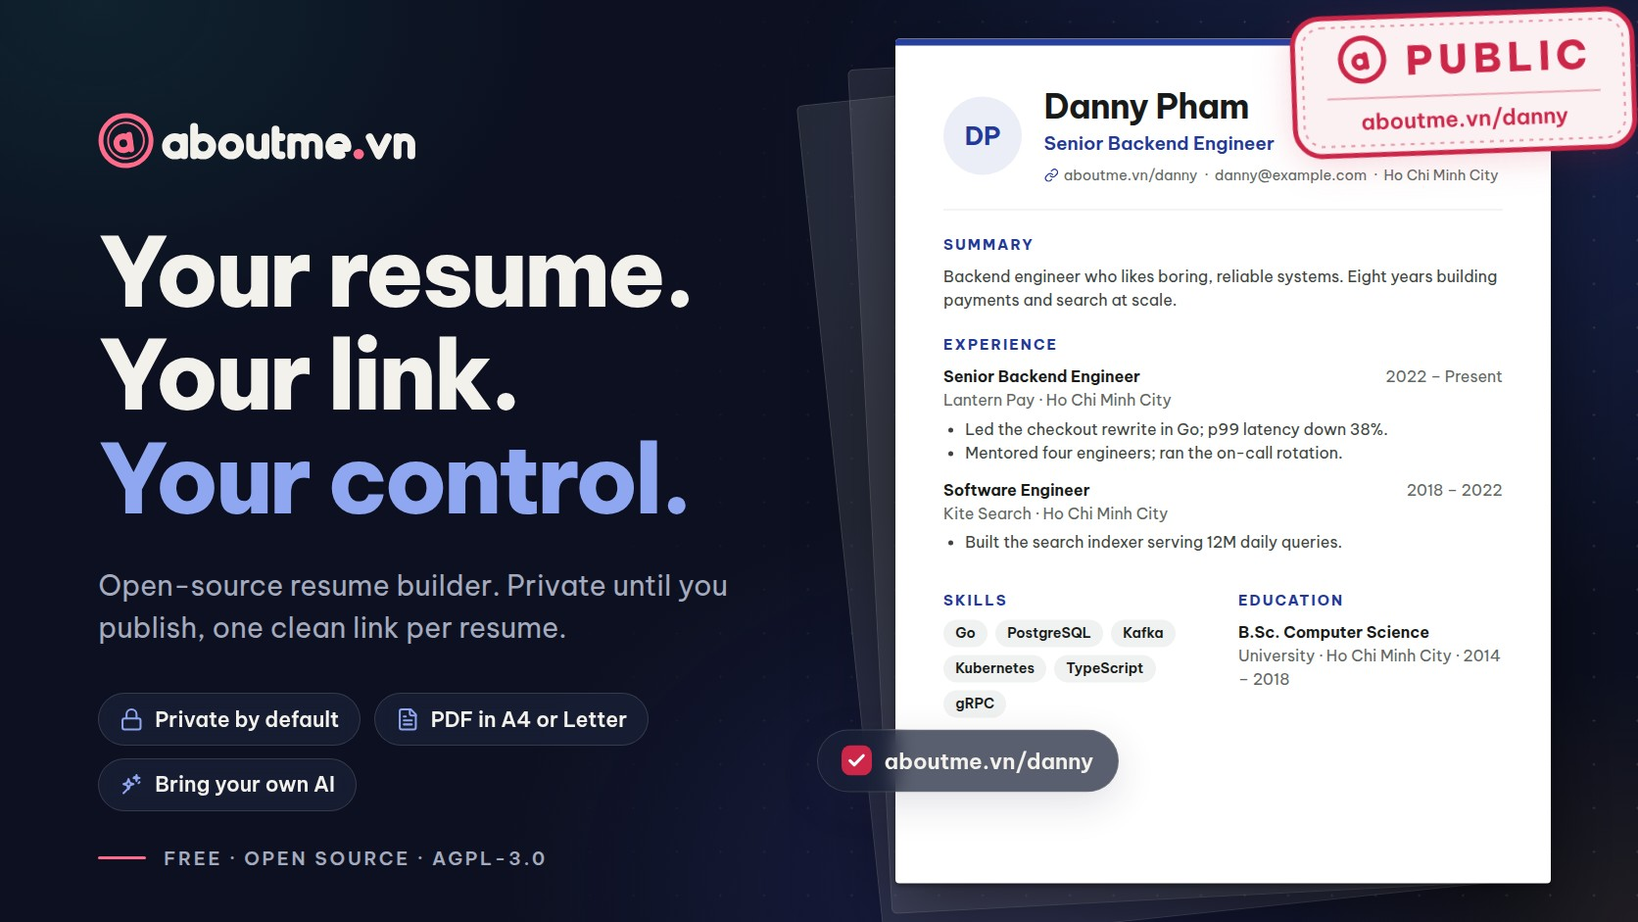
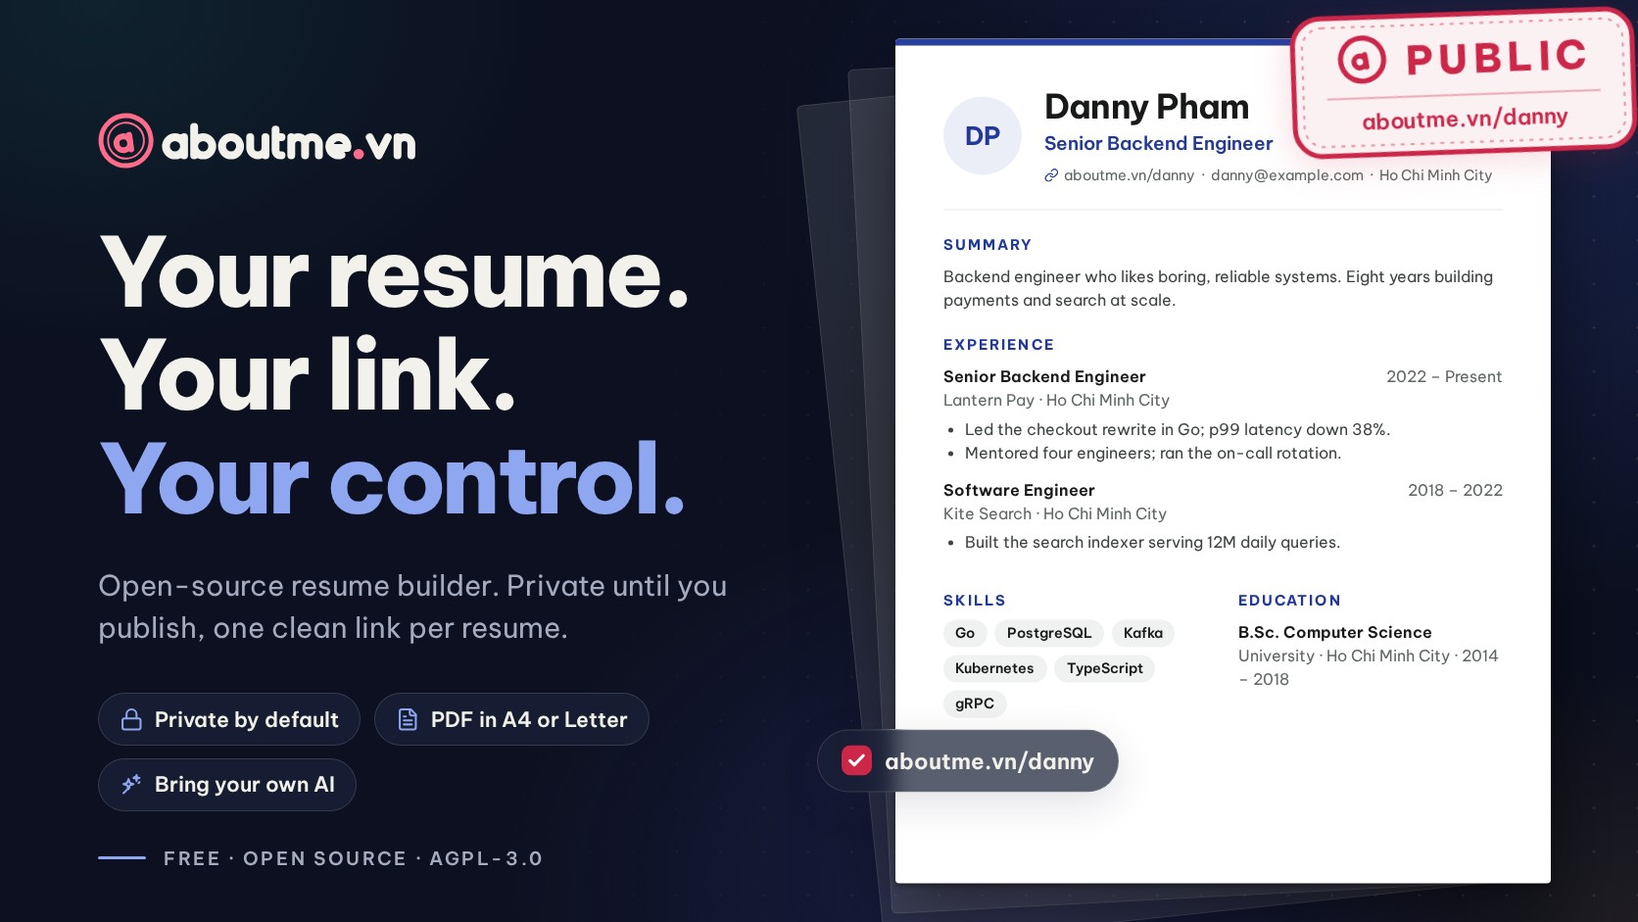
fix(web): shift ochre yellower and finish the ink-and-seal follow-ups
Moves --brand-ochre to #8F6F0D light and #E6C35F dark so it cannot be
read as the burnt-orange destructive color, and matches the glow
triplets and brand art to the new token. Bumps the versioned Open
Graph images and re-renders the brand art, replaces "vermilion" with
"seal red" in ADR 0020 and typography-and-tokens.md, extends the
WCAG contrast test to every ground token, moves the "FREE" rule and
the email wordmark's dot to seal red so red still means public only,
and fixes drifted values in public-page-theme.md.

diff --git a/apps/web/test/app/theme.test.ts b/apps/web/test/app/theme.test.ts
@@ -45,7 +45,7 @@ const lightTokens = {
   '--brand-deep-blue': 'var(--link)',
   '--brand-indigo': '#4a4dbf',
   '--brand-jade': '#0f7c6e',
-  '--brand-ochre': '#a86d12',
+  '--brand-ochre': '#8f6f0d',
   '--surface-blue': '#eceef7',
   '--surface-indigo': '#efeef8',
   '--surface-sand': '#f6eedf',
@@ -111,7 +111,7 @@ const darkTokens = {
   '--brand-deep-blue': 'var(--link)',
   '--brand-indigo': '#9a9cff',
   '--brand-jade': '#5fcfbb',
-  '--brand-ochre': '#e2b45c',
+  '--brand-ochre': '#e6c35f',
   '--surface-blue': '#151d36',
   '--surface-indigo': '#1a1b3d',
   '--surface-sand': '#231d16',
@@ -158,10 +158,10 @@ describe('application theme', () => {
     }
     expect(light).toContain('rgb(15 124 110 / 0.16)');
     expect(light).toContain('rgb(38 64 156 / 0.18)');
-    expect(light).toContain('rgb(183 121 31 / 0.16)');
+    expect(light).toContain('rgb(143 111 13 / 0.16)');
     expect(dark).toContain('rgb(95 207 187 / 0.14)');
     expect(dark).toContain('rgb(143 166 240 / 0.22)');
-    expect(dark).toContain('rgb(226 180 92 / 0.12)');
+    expect(dark).toContain('rgb(230 195 95 / 0.12)');
   });
 
   it('maps the chrome font, seal colors, radii, shadow, and type scale', () => {
@@ -273,7 +273,8 @@ describe('application theme', () => {
       Object.assign(tokens, blockDeclarations(css, selector));
       const grounds = [
         '--background', '--card', '--muted', '--surface-blue',
-        '--surface-indigo', '--surface-sand',
+        '--surface-indigo', '--surface-sand', '--secondary', '--accent',
+        '--popover', '--editor-canvas', '--surface-destructive',
       ];
       // Body text needs 4.5:1; icons, dots, and input borders need 3:1.
       const text = [
@@ -284,15 +285,16 @@ describe('application theme', () => {
         '--primary', '--brand-indigo', '--brand-jade', '--brand-ochre',
       ];
       for (const ground of grounds) {
+        const groundHex = resolveColor(tokens[ground]!, tokens);
         for (const fg of text) {
           expect(
-            contrast(tokens[fg]!, tokens[ground]!),
+            contrast(tokens[fg]!, groundHex),
             `${selector} ${fg} on ${ground}`,
           ).toBeGreaterThanOrEqual(4.5);
         }
         for (const fg of marks) {
           expect(
-            contrast(tokens[fg]!, tokens[ground]!),
+            contrast(tokens[fg]!, groundHex),
             `${selector} ${fg} on ${ground}`,
           ).toBeGreaterThanOrEqual(3);
         }
@@ -431,6 +433,39 @@ function sourceFiles(directory: string): string[] {
     if (entry.isDirectory()) return sourceFiles(path);
     return /\.(?:css|ts|vue)$/.test(entry.name) ? [path] : [];
   });
+}
+
+// Resolves a token value to a six-digit hex color, following a var()
+// reference or computing a color-mix() the way the browser would, so
+// grounds built from either (--surface-destructive) can be checked for
+// contrast like any other ground.
+function resolveColor(
+  value: string,
+  tokens: Record<string, string>,
+): string {
+  const trimmed = value.trim();
+  const varMatch = /^var\((--[\w-]+)\)$/u.exec(trimmed);
+  if (varMatch) return resolveColor(tokens[varMatch[1]!]!, tokens);
+  const mixMatch
+    = /^color-mix\(in srgb,\s*(.+?) (\d+)%,\s*(.+?)\)$/u.exec(trimmed);
+  if (mixMatch) {
+    const fraction = Number(mixMatch[2]) / 100;
+    const first = resolveColor(mixMatch[1]!, tokens);
+    const second = resolveColor(mixMatch[3]!, tokens);
+    return mixHex(first, second, fraction);
+  }
+  return trimmed;
+}
+
+function mixHex(first: string, second: string, fraction: number): string {
+  const channel = (at: number): number => {
+    const a = Number.parseInt(first.slice(1 + at, 3 + at), 16);
+    const b = Number.parseInt(second.slice(1 + at, 3 + at), 16);
+    return Math.round(a * fraction + b * (1 - fraction));
+  };
+  return `#${[0, 2, 4]
+    .map((at) => channel(at).toString(16).padStart(2, '0'))
+    .join('')}`;
 }
 
 function contrast(first: string, second: string): number {

diff --git a/docs/brand/src/og-image-en.html b/docs/brand/src/og-image-en.html
@@ -1,9 +1,9 @@
 <!doctype html><html lang="en"><head><meta charset="utf-8">
-<meta name="brand-render" content="width=1200;height=630;out=../../../apps/web/public/og-image-v5-en.jpg">
+<meta name="brand-render" content="width=1200;height=630;out=../../../apps/web/public/og-image-v6-en.jpg">
 <!-- Brand art source (docs/brand/README.md). Edit, then run: node apps/web/scripts/render-brand.mjs -->
 <style>
 @font-face{font-family:"Be Vietnam Pro";src:url(../../../apps/web/app/assets/fonts/be-vietnam-pro-var.woff2);font-weight:100 900}
-html{font-size:16.0px} body{margin:0;width:1200px;height:630px;overflow:hidden;background:#f9f8f5;background-image:radial-gradient(60% 70% at 88% 18%, rgb(38 64 156 / .14), transparent 70%), radial-gradient(45% 60% at 62% 96%, rgb(74 77 191 / .10), transparent 70%), radial-gradient(40% 55% at 6% 0%, rgb(15 124 110 / .10), transparent 70%), radial-gradient(30% 40% at 100% 100%, rgb(183 121 31 / .12), transparent 70%);font-family:"Be Vietnam Pro",Inter,system-ui,sans-serif;color:#101b3f;-webkit-font-smoothing:antialiased;position:relative}
+html{font-size:16.0px} body{margin:0;width:1200px;height:630px;overflow:hidden;background:#f9f8f5;background-image:radial-gradient(60% 70% at 88% 18%, rgb(38 64 156 / .14), transparent 70%), radial-gradient(45% 60% at 62% 96%, rgb(74 77 191 / .10), transparent 70%), radial-gradient(40% 55% at 6% 0%, rgb(15 124 110 / .10), transparent 70%), radial-gradient(30% 40% at 100% 100%, rgb(143 111 13 / .12), transparent 70%);font-family:"Be Vietnam Pro",Inter,system-ui,sans-serif;color:#101b3f;-webkit-font-smoothing:antialiased;position:relative}
 .grid{position:absolute;inset:0;background-image:radial-gradient(rgba(16,27,63,.06) 1.2px,transparent 1.3px);background-size:2rem 2rem;-webkit-mask-image:linear-gradient(100deg,transparent 35%,#000 70%);mask-image:linear-gradient(100deg,transparent 35%,#000 70%)}
 .left{position:absolute;left:4.5rem;top:0;bottom:0;width:36rem;display:flex;flex-direction:column;justify-content:center}
 h1{margin:2.25rem 0 0;font-size:4.4rem;line-height:1.08;font-weight:800;letter-spacing:-.035em}
@@ -13,7 +13,7 @@ h1 > span{display:block} h1 em{font-style:normal;color:#26409c}
 .chip{display:inline-flex;align-items:center;gap:.5rem;padding:.55rem .95rem;border-radius:9999px;background:rgba(255,255,255,.78);border:1px solid #e5e1d6;font-size:.95rem;font-weight:600;backdrop-filter:blur(8px)}
 .chip svg{font-size:1.1rem}
 .foot{position:absolute;left:4.5rem;bottom:2.4rem;font-size:.85rem;font-weight:600;letter-spacing:.14em;text-transform:uppercase;color:#5c6178;display:flex;align-items:center;gap:.8rem}
-.foot:before{content:"";width:2.2rem;height:3px;border-radius:3px;background:#cc2649}
+.foot:before{content:"";width:2.2rem;height:3px;border-radius:3px;background:#26409c}
 .foot{display:none}
 .stage{position:absolute;right:4rem;top:50%;width:30rem;height:35.88rem;transform:translateY(-50%)}
 .ghost{position:absolute;inset:0;border-radius:6px;background:rgba(255,255,255,.55);border:1px solid rgba(16,27,63,.06)}

diff --git a/docs/brand/src/og-image-vi.html b/docs/brand/src/og-image-vi.html
@@ -1,9 +1,9 @@
 <!doctype html><html lang="vi"><head><meta charset="utf-8">
-<meta name="brand-render" content="width=1200;height=630;out=../../../apps/web/public/og-image-v6.jpg">
+<meta name="brand-render" content="width=1200;height=630;out=../../../apps/web/public/og-image-v7.jpg">
 <!-- Brand art source (docs/brand/README.md). Edit, then run: node apps/web/scripts/render-brand.mjs -->
 <style>
 @font-face{font-family:"Be Vietnam Pro";src:url(../../../apps/web/app/assets/fonts/be-vietnam-pro-var.woff2);font-weight:100 900}
-html{font-size:16.0px} body{margin:0;width:1200px;height:630px;overflow:hidden;background:#f9f8f5;background-image:radial-gradient(60% 70% at 88% 18%, rgb(38 64 156 / .14), transparent 70%), radial-gradient(45% 60% at 62% 96%, rgb(74 77 191 / .10), transparent 70%), radial-gradient(40% 55% at 6% 0%, rgb(15 124 110 / .10), transparent 70%), radial-gradient(30% 40% at 100% 100%, rgb(183 121 31 / .12), transparent 70%);font-family:"Be Vietnam Pro",Inter,system-ui,sans-serif;color:#101b3f;-webkit-font-smoothing:antialiased;position:relative}
+html{font-size:16.0px} body{margin:0;width:1200px;height:630px;overflow:hidden;background:#f9f8f5;background-image:radial-gradient(60% 70% at 88% 18%, rgb(38 64 156 / .14), transparent 70%), radial-gradient(45% 60% at 62% 96%, rgb(74 77 191 / .10), transparent 70%), radial-gradient(40% 55% at 6% 0%, rgb(15 124 110 / .10), transparent 70%), radial-gradient(30% 40% at 100% 100%, rgb(143 111 13 / .12), transparent 70%);font-family:"Be Vietnam Pro",Inter,system-ui,sans-serif;color:#101b3f;-webkit-font-smoothing:antialiased;position:relative}
 .grid{position:absolute;inset:0;background-image:radial-gradient(rgba(16,27,63,.06) 1.2px,transparent 1.3px);background-size:2rem 2rem;-webkit-mask-image:linear-gradient(100deg,transparent 35%,#000 70%);mask-image:linear-gradient(100deg,transparent 35%,#000 70%)}
 .left{position:absolute;left:4.5rem;top:0;bottom:0;width:36rem;display:flex;flex-direction:column;justify-content:center}
 h1{margin:2.25rem 0 0;font-size:4.1rem;line-height:1.08;font-weight:800;letter-spacing:-.035em}
@@ -13,7 +13,7 @@ h1 > span{display:block} h1 em{font-style:normal;color:#26409c}
 .chip{display:inline-flex;align-items:center;gap:.5rem;padding:.55rem .95rem;border-radius:9999px;background:rgba(255,255,255,.78);border:1px solid #e5e1d6;font-size:.95rem;font-weight:600;backdrop-filter:blur(8px)}
 .chip svg{font-size:1.1rem}
 .foot{position:absolute;left:4.5rem;bottom:2.4rem;font-size:.85rem;font-weight:600;letter-spacing:.14em;text-transform:uppercase;color:#5c6178;display:flex;align-items:center;gap:.8rem}
-.foot:before{content:"";width:2.2rem;height:3px;border-radius:3px;background:#cc2649}
+.foot:before{content:"";width:2.2rem;height:3px;border-radius:3px;background:#26409c}
 .foot{display:none}
 .stage{position:absolute;right:4rem;top:50%;width:30rem;height:35.88rem;transform:translateY(-50%)}
 .ghost{position:absolute;inset:0;border-radius:6px;background:rgba(255,255,255,.55);border:1px solid rgba(16,27,63,.06)}

diff --git a/docs/brand/src/share-image.html b/docs/brand/src/share-image.html
@@ -3,7 +3,7 @@
 <!-- Brand art source (docs/brand/README.md). Edit, then run: node apps/web/scripts/render-brand.mjs -->
 <style>
 @font-face{font-family:"Be Vietnam Pro";src:url(../../../apps/web/app/assets/fonts/be-vietnam-pro-var.woff2);font-weight:100 900}
-html{font-size:17.066666666666666px} body{margin:0;width:1280px;height:640px;overflow:hidden;background:#f9f8f5;background-image:radial-gradient(60% 70% at 88% 18%, rgb(38 64 156 / .14), transparent 70%), radial-gradient(45% 60% at 62% 96%, rgb(74 77 191 / .10), transparent 70%), radial-gradient(40% 55% at 6% 0%, rgb(15 124 110 / .10), transparent 70%), radial-gradient(30% 40% at 100% 100%, rgb(183 121 31 / .12), transparent 70%);font-family:"Be Vietnam Pro",Inter,system-ui,sans-serif;color:#101b3f;-webkit-font-smoothing:antialiased;position:relative}
+html{font-size:17.066666666666666px} body{margin:0;width:1280px;height:640px;overflow:hidden;background:#f9f8f5;background-image:radial-gradient(60% 70% at 88% 18%, rgb(38 64 156 / .14), transparent 70%), radial-gradient(45% 60% at 62% 96%, rgb(74 77 191 / .10), transparent 70%), radial-gradient(40% 55% at 6% 0%, rgb(15 124 110 / .10), transparent 70%), radial-gradient(30% 40% at 100% 100%, rgb(143 111 13 / .12), transparent 70%);font-family:"Be Vietnam Pro",Inter,system-ui,sans-serif;color:#101b3f;-webkit-font-smoothing:antialiased;position:relative}
 .grid{position:absolute;inset:0;background-image:radial-gradient(rgba(16,27,63,.06) 1.2px,transparent 1.3px);background-size:2rem 2rem;-webkit-mask-image:linear-gradient(100deg,transparent 35%,#000 70%);mask-image:linear-gradient(100deg,transparent 35%,#000 70%)}
 .left{position:absolute;left:4.5rem;top:0;bottom:0;width:36rem;display:flex;flex-direction:column;justify-content:center}
 h1{margin:2.25rem 0 0;font-size:4.4rem;line-height:1.08;font-weight:800;letter-spacing:-.035em}
@@ -13,7 +13,7 @@ h1 > span{display:block} h1 em{font-style:normal;color:#26409c}
 .chip{display:inline-flex;align-items:center;gap:.5rem;padding:.55rem .95rem;border-radius:9999px;background:rgba(255,255,255,.78);border:1px solid #e5e1d6;font-size:.95rem;font-weight:600;backdrop-filter:blur(8px)}
 .chip svg{font-size:1.1rem}
 .foot{position:absolute;left:4.5rem;bottom:2.4rem;font-size:.85rem;font-weight:600;letter-spacing:.14em;text-transform:uppercase;color:#5c6178;display:flex;align-items:center;gap:.8rem}
-.foot:before{content:"";width:2.2rem;height:3px;border-radius:3px;background:#cc2649}
+.foot:before{content:"";width:2.2rem;height:3px;border-radius:3px;background:#26409c}
 .foot{display:none}
 .stage{position:absolute;right:4rem;top:50%;width:30rem;height:34.0rem;transform:translateY(-50%)}
 .ghost{position:absolute;inset:0;border-radius:6px;background:rgba(255,255,255,.55);border:1px solid rgba(16,27,63,.06)}

diff --git a/docs/brand/src/banner-light.html b/docs/brand/src/banner-light.html
@@ -3,7 +3,7 @@
 <!-- Brand art source (docs/brand/README.md). Edit, then run: node apps/web/scripts/render-brand.mjs -->
 <style>
 @font-face{font-family:"Be Vietnam Pro";src:url(../../../apps/web/app/assets/fonts/be-vietnam-pro-var.woff2);font-weight:100 900}
-html{font-size:22.293333333333333px} body{margin:0;width:1672px;height:941px;overflow:hidden;background:#f9f8f5;background-image:radial-gradient(60% 70% at 88% 18%, rgb(38 64 156 / .14), transparent 70%), radial-gradient(45% 60% at 62% 96%, rgb(74 77 191 / .10), transparent 70%), radial-gradient(40% 55% at 6% 0%, rgb(15 124 110 / .10), transparent 70%), radial-gradient(30% 40% at 100% 100%, rgb(183 121 31 / .12), transparent 70%);font-family:"Be Vietnam Pro",Inter,system-ui,sans-serif;color:#101b3f;-webkit-font-smoothing:antialiased;position:relative}
+html{font-size:22.293333333333333px} body{margin:0;width:1672px;height:941px;overflow:hidden;background:#f9f8f5;background-image:radial-gradient(60% 70% at 88% 18%, rgb(38 64 156 / .14), transparent 70%), radial-gradient(45% 60% at 62% 96%, rgb(74 77 191 / .10), transparent 70%), radial-gradient(40% 55% at 6% 0%, rgb(15 124 110 / .10), transparent 70%), radial-gradient(30% 40% at 100% 100%, rgb(143 111 13 / .12), transparent 70%);font-family:"Be Vietnam Pro",Inter,system-ui,sans-serif;color:#101b3f;-webkit-font-smoothing:antialiased;position:relative}
 .grid{position:absolute;inset:0;background-image:radial-gradient(rgba(16,27,63,.06) 1.2px,transparent 1.3px);background-size:2rem 2rem;-webkit-mask-image:linear-gradient(100deg,transparent 35%,#000 70%);mask-image:linear-gradient(100deg,transparent 35%,#000 70%)}
 .left{position:absolute;left:4.5rem;top:0;bottom:0;width:36rem;display:flex;flex-direction:column;justify-content:center}
 h1{margin:2.25rem 0 0;font-size:4.4rem;line-height:1.08;font-weight:800;letter-spacing:-.035em}
@@ -13,7 +13,7 @@ h1 > span{display:block} h1 em{font-style:normal;color:#26409c}
 .chip{display:inline-flex;align-items:center;gap:.5rem;padding:.55rem .95rem;border-radius:9999px;background:rgba(255,255,255,.78);border:1px solid #e5e1d6;font-size:.95rem;font-weight:600;backdrop-filter:blur(8px)}
 .chip svg{font-size:1.1rem}
 .foot{position:absolute;left:4.5rem;bottom:2.4rem;font-size:.85rem;font-weight:600;letter-spacing:.14em;text-transform:uppercase;color:#5c6178;display:flex;align-items:center;gap:.8rem}
-.foot:before{content:"";width:2.2rem;height:3px;border-radius:3px;background:#cc2649}
+.foot:before{content:"";width:2.2rem;height:3px;border-radius:3px;background:#26409c}
 
 .stage{position:absolute;right:4rem;top:50%;width:30rem;height:38.71rem;transform:translateY(-50%)}
 .ghost{position:absolute;inset:0;border-radius:6px;background:rgba(255,255,255,.55);border:1px solid rgba(16,27,63,.06)}

diff --git a/apps/web/e2e/card.spec.ts b/apps/web/e2e/card.spec.ts
@@ -251,7 +251,7 @@ const CROPPED_PHOTO = {
   url: FIXED_PHOTO_DATA_URL,
 };
 const UNCROPPED_PHOTO = { crop: null, url: FIXED_PHOTO_DATA_URL };
-const BRAND_ACCENT = '#1a5ceb';
+const FIXTURE_ACCENT = '#1a5ceb';
 
 interface CardCase {
   readonly card: PreviewCardContent;
@@ -261,7 +261,7 @@ interface CardCase {
 const CASES: readonly CardCase[] = [
   {
     card: {
-      accent: BRAND_ACCENT,
+      accent: FIXTURE_ACCENT,
       headline: longVietnameseText(80),
       layoutVersion: CARD_LAYOUT_VERSION,
       lng: 'vi',
@@ -273,7 +273,7 @@ const CASES: readonly CardCase[] = [
   },
   {
     card: {
-      accent: BRAND_ACCENT,
+      accent: FIXTURE_ACCENT,
       headline: 'Analyst',
       layoutVersion: CARD_LAYOUT_VERSION,
       lng: 'en',
@@ -285,7 +285,7 @@ const CASES: readonly CardCase[] = [
   },
   {
     card: {
-      accent: BRAND_ACCENT,
+      accent: FIXTURE_ACCENT,
       headline: 'Computer Scientist',
       layoutVersion: CARD_LAYOUT_VERSION,
       lng: 'en',
@@ -297,7 +297,7 @@ const CASES: readonly CardCase[] = [
   },
   {
     card: {
-      accent: BRAND_ACCENT,
+      accent: FIXTURE_ACCENT,
       headline: null,
       layoutVersion: CARD_LAYOUT_VERSION,
       lng: 'en',
@@ -335,7 +335,7 @@ const CASES: readonly CardCase[] = [
   },
   {
     card: {
-      accent: BRAND_ACCENT,
+      accent: FIXTURE_ACCENT,
       headline: '軟件工程師',
       layoutVersion: CARD_LAYOUT_VERSION,
       lng: 'zh',
@@ -393,7 +393,7 @@ test('a noisy photo keeps the rendered card under its byte cap', async ({
 }) => {
   const external = await denyExternalRequests(page);
   const card: PreviewCardContent = {
-    accent: BRAND_ACCENT,
+    accent: FIXTURE_ACCENT,
     headline: 'Stress case',
     layoutVersion: CARD_LAYOUT_VERSION,
     lng: 'en',

diff --git a/apps/web/app/assets/css/theme.css b/apps/web/app/assets/css/theme.css
@@ -38,7 +38,7 @@
   --brand-deep-blue: var(--link);
   --brand-indigo: #4a4dbf;
   --brand-jade: #0f7c6e;
-  --brand-ochre: #a86d12;
+  --brand-ochre: #8f6f0d;
   --surface-blue: #eceef7;
   --surface-indigo: #efeef8;
   --surface-sand: #f6eedf;
@@ -88,7 +88,7 @@
     ),
     radial-gradient(
       34rem 24rem at 100% 44rem,
-      rgb(183 121 31 / 0.06),
+      rgb(143 111 13 / 0.06),
       transparent 70%
     );
   --shadow-product:
@@ -100,7 +100,11 @@
      the glow behind the sample sheet (DESIGN.md; ADR 0020). */
   --gradient-brand-strong: linear-gradient(90deg, #1e3483, #3d40ad);
   --gradient-hero-glow:
-    radial-gradient(55% 40% at 22% 28%, rgb(15 124 110 / 0.16), transparent 70%),
+    radial-gradient(
+      55% 40% at 22% 28%,
+      rgb(15 124 110 / 0.16),
+      transparent 70%
+    ),
     radial-gradient(
       55% 42% at 78% 36%,
       rgb(38 64 156 / 0.18),
@@ -108,7 +112,7 @@
     ),
     radial-gradient(
       60% 40% at 50% 82%,
-      rgb(183 121 31 / 0.16),
+      rgb(143 111 13 / 0.16),
       transparent 70%
     );
   --shadow-cta: 0 8px 24px rgb(38 64 156 / 0.24);
@@ -146,7 +150,7 @@ html[data-theme="dark"] {
   --brand-deep-blue: var(--link);
   --brand-indigo: #9a9cff;
   --brand-jade: #5fcfbb;
-  --brand-ochre: #e2b45c;
+  --brand-ochre: #e6c35f;
   --surface-blue: #151d36;
   --surface-indigo: #1a1b3d;
   --surface-sand: #231d16;
@@ -198,7 +202,7 @@ html[data-theme="dark"] {
     ),
     radial-gradient(
       60% 40% at 50% 82%,
-      rgb(226 180 92 / 0.12),
+      rgb(230 195 95 / 0.12),
       transparent 70%
     );
   --shadow-cta: 0 8px 24px rgb(143 166 240 / 0.18);

diff --git a/deploy/caddy/production/maintenance.html b/deploy/caddy/production/maintenance.html
@@ -34,11 +34,11 @@
           radial-gradient(44rem 30rem at 8% -4rem, #26409c14, #0000 70%),
           radial-gradient(38rem 28rem at 96% 0, #4a4dbf0d, #0000 70%),
           radial-gradient(40rem 28rem at 0% 40rem, #0f7c6e0d, #0000 70%),
-          radial-gradient(34rem 24rem at 100% 44rem, #b7791f0f, #0000 70%);
+          radial-gradient(34rem 24rem at 100% 44rem, #8f6f0d0f, #0000 70%);
         --glow:
           radial-gradient(closest-side at 30% 34%, #0f7c6e29, #0000),
           radial-gradient(closest-side at 70% 40%, #26409c2e, #0000),
-          radial-gradient(closest-side at 50% 72%, #b7791f29, #0000);
+          radial-gradient(closest-side at 50% 72%, #8f6f0d29, #0000);
       }
       @media (prefers-color-scheme: dark) {
         :root {
@@ -64,7 +64,7 @@
           --glow:
             radial-gradient(closest-side at 30% 34%, #5fcfbb24, #0000),
             radial-gradient(closest-side at 70% 40%, #8fa6f038, #0000),
-            radial-gradient(closest-side at 50% 72%, #e2b45c1f, #0000);
+            radial-gradient(closest-side at 50% 72%, #e6c35f1f, #0000);
         }
       }
       * {

diff --git a/docs/brand/src/banner-dark.html b/docs/brand/src/banner-dark.html
@@ -13,7 +13,7 @@ h1 > span{display:block} h1 em{font-style:normal;color:#8fa6f0}
 .chip{display:inline-flex;align-items:center;gap:.5rem;padding:.55rem .95rem;border-radius:9999px;background:rgba(26,33,56,.72);border:1px solid rgba(230,225,210,.16);font-size:.95rem;font-weight:600;backdrop-filter:blur(8px)}
 .chip svg{font-size:1.1rem}
 .foot{position:absolute;left:4.5rem;bottom:2.4rem;font-size:.85rem;font-weight:600;letter-spacing:.14em;text-transform:uppercase;color:#a5abbf;display:flex;align-items:center;gap:.8rem}
-.foot:before{content:"";width:2.2rem;height:3px;border-radius:3px;background:#ff6b8a}
+.foot:before{content:"";width:2.2rem;height:3px;border-radius:3px;background:#8fa6f0}
 
 .stage{position:absolute;right:4rem;top:50%;width:30rem;height:38.71rem;transform:translateY(-50%)}
 .ghost{position:absolute;inset:0;border-radius:6px;background:rgba(255,255,255,.10);border:1px solid rgba(230,225,210,.14)}

diff --git a/apps/web/test/seo.test.ts b/apps/web/test/seo.test.ts
@@ -121,8 +121,8 @@ describe('site page search metadata', () => {
         );
         expect(meta('meta[property="og:image"]')).toBe(
           locale === 'vi'
-            ? 'https://aboutme.vn/og-image-v6.jpg'
-            : 'https://aboutme.vn/og-image-v5-en.jpg',
+            ? 'https://aboutme.vn/og-image-v7.jpg'
+            : 'https://aboutme.vn/og-image-v6-en.jpg',
         );
         expect(meta('meta[name="twitter:card"]')).toBe('summary_large_image');
         expect(document.head.querySelector('meta[name="robots"]')).toBeNull();

diff --git a/apps/web/app/i18n/meta.ts b/apps/web/app/i18n/meta.ts
@@ -11,8 +11,8 @@ export const siteOrigin = 'https://aboutme.vn';
  * crawler without the locale cookie gets Vietnamese, the site default.
  */
 export const ogImageUrl: Record<Locale, string> = {
-  vi: `${siteOrigin}/og-image-v6.jpg`,
-  en: `${siteOrigin}/og-image-v5-en.jpg`,
+  vi: `${siteOrigin}/og-image-v7.jpg`,
+  en: `${siteOrigin}/og-image-v6-en.jpg`,
 };
 
 export const indexablePaths: ReadonlySet<string> = new Set([

diff --git a/apps/server/internal/authmail/templates.go b/apps/server/internal/authmail/templates.go
@@ -12,11 +12,12 @@ import (
 // HTML has no image, script, stylesheet, web font, tracking pixel, or any
 // external resource: every style is inline and the wordmark is text.
 
-// Ink and paper desk colors, and the primary brand blue (ADR 0020) for the
-// "me.vn" in the aboutme.vn wordmark.
+// Ink and paper desk colors, and seal red (ADR 0020) for the dot before "vn"
+// in the aboutme.vn wordmark: the text color, with only that dot in red, like
+// AppLogo.
 const (
 	colorInk    = "#192024"
-	colorBrand  = "#26409C"
+	colorSeal   = "#CC2649"
 	colorDesk   = "#EDEFEB"
 	colorMuted  = "#5B6470"
 	colorRule   = "#DADDD6"
@@ -189,8 +190,8 @@ func renderHTML(t template, link string) string {
 	b.WriteString(`<table role="presentation" width="100%" cellpadding="0" cellspacing="0" style="max-width:520px;` +
 		`background:#FFFFFF;border:1px solid ` + colorRule + `;border-radius:8px;font-family:` + fontStack +
 		`;color:` + colorInk + `;"><tr><td style="padding:32px 32px 8px;">`)
-	b.WriteString(`<div style="font-size:22px;font-weight:800;letter-spacing:-0.02em;">about<span style="color:` +
-		colorBrand + `;">me.vn</span></div>`)
+	b.WriteString(`<div style="font-size:22px;font-weight:800;letter-spacing:-0.02em;">aboutme<span style="color:` +
+		colorSeal + `;">.</span>vn</div>`)
 	b.WriteString(`</td></tr>`)
 
 	writeSection(&b, t.vi, `padding:16px 32px 0;`, colorInk)
